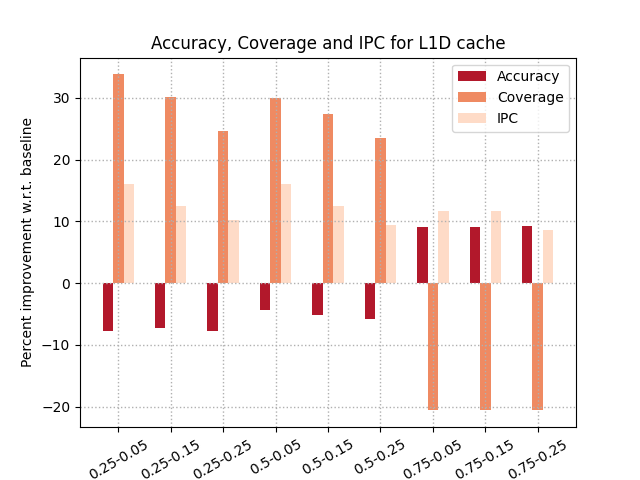
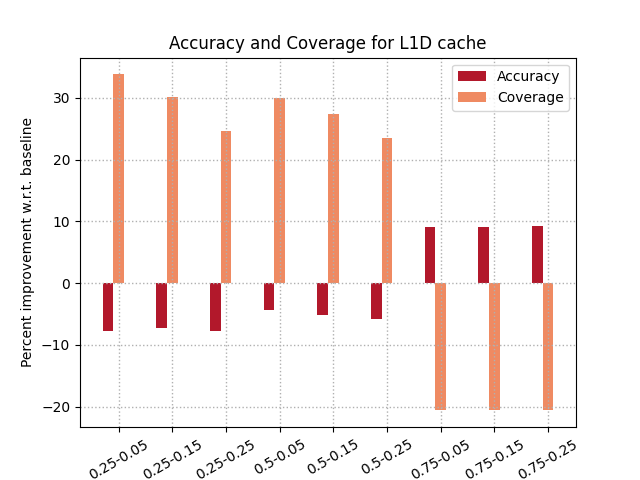
updated plots

diff --git a/results/plot2.py b/results/plot2.py
@@ -116,16 +116,28 @@ for cache in CACHES:
         for j, file in enumerate(files):
             data[i, j] = 100.0 * (d2[file] / BASELINE[cache][LABELS[i]] - 1)
 
-    plt.figure()
+    fig = plt.figure()
     
-    for i in range(data.shape[0]):
+    for i in range(data.shape[0] - 1):
         plt.bar(X + i * 0.2, data[i, :], width = 0.2, color = COLORS[i], align='edge', label=LABELS[i])
 
     plt.ylabel('Percent improvement w.r.t. baseline')
-    plt.title(f'Accuracy, Coverage and IPC for {cache} cache')
+    plt.title(f'Accuracy and Coverage for {cache} cache')
     plt.xticks(X+0.3, files, rotation=30)
     plt.legend(labels=LABELS)
     plt.grid(linestyle='dotted', linewidth=1)
     # plt.show()
     plt.savefig(f'{PLOT_DIR}/combined_{cache}.png')
-   
+
+plt.close(fig)
+
+
+fig = plt.figure()
+plt.bar(X + 2 * 0.2, data[2, :], width = 0.2, color = COLORS[2], align='edge', label=LABELS[2])
+plt.ylabel('Percent improvement w.r.t. baseline')
+plt.title(f'IPC')
+plt.xticks(X+0.3, files, rotation=30)
+plt.grid(linestyle='dotted', linewidth=1)
+# plt.show()
+plt.savefig(f'{PLOT_DIR}/combined_ipcs.png')
+plt.close(fig)
